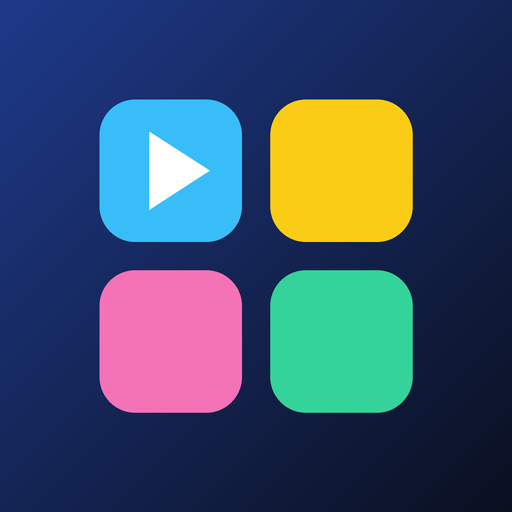
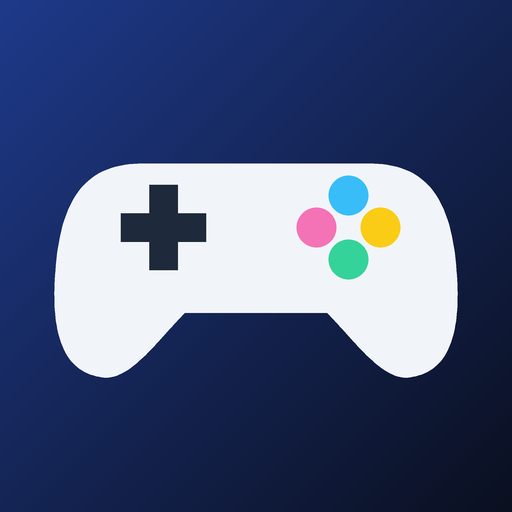
Ikon: oyun kolu tasarimi
Tek parca oyun kolu silueti, tuslar uygulamanin dort renginde; tema (tek renk)
ikonu, Android 7 PNG'si ve Play magaza ikonu da guncellendi.

Claude-Session: https://claude.ai/code/session_01EsDLqJEiAonHk5XG9wcZ3L

diff --git a/README.md b/README.md
@@ -108,7 +108,7 @@ Dosyalar `res/raw/sfx_*.ogg` altında. RN projesindeki sesler OGG'ye çevrildi, 
 
 ## Uygulama ikonu
 
-- Uyarlanabilir (adaptive) ikon, vektör olarak: `res/drawable/ic_launcher_background.xml` (lacivert gradyan), `ic_launcher_foreground.xml` (dört renkli kare + oynat), `ic_launcher_monochrome.xml` (Android 13+ tema ikonları).
+- Uyarlanabilir (adaptive) ikon, vektör olarak: `res/drawable/ic_launcher_background.xml` (lacivert gradyan), `ic_launcher_foreground.xml` (oyun kolu, tuşlar uygulamanın dört renginde), `ic_launcher_monochrome.xml` (Android 13+ tema ikonları).
 - Android 7 cihazlar için: `res/mipmap-nodpi/ic_launcher.png`.
 - **Play Store mağaza ikonu** (512×512): `store/play_store_icon_512.png`. Play Console → **Mağaza varlığı → Ana mağaza girişi → Uygulama simgesi** bölümüne yüklenir; uygulama içindeki ikondan ayrı olarak güncellenmesi gerekir.
 
